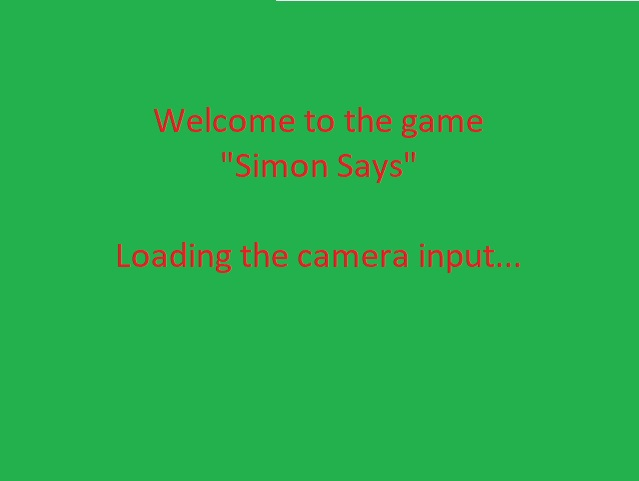
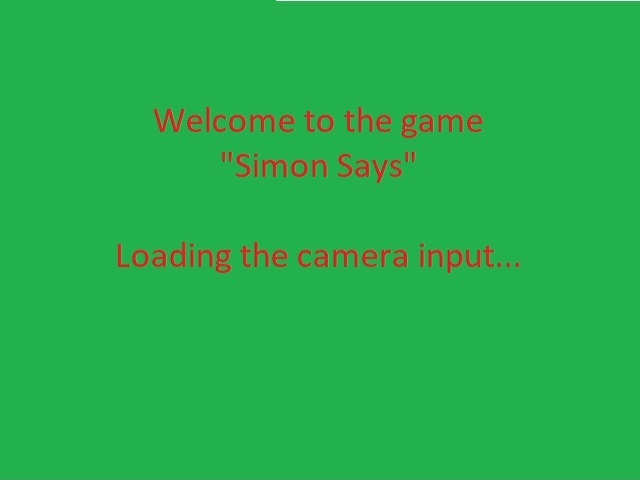
Add the left bar menu, clean the code that function use the arguments

Changed region(s): [[0.2379, 0.2188, 0.7731, 0.375], [0.1784, 0.5, 0.8326, 0.5938]]

diff --git a/helper.py b/helper.py
@@ -10,78 +10,97 @@ import sys
 
 class VideoStreamWidget(object):
     def __init__(self):
-        # Start the thread to read frames from the video stream
-        self.thread = Thread(target=self.update, args=())
-        self.thread.daemon = True
-        self.thread.start()
-        self.PROGRAM_NAME = "Simon Says"
-        self.FIRST_FRAME_PATH = "first_frame.jpg"
+        ### Constans
         ## Tune mediapipe detection and tracking
-        self.pose_detector = mp.solutions.pose.Pose(
+        self.POSE_DETECTOR = mp.solutions.pose.Pose(
             min_detection_confidence=0.5, min_tracking_confidence=0.5
         )
-        self.mp_pose = mp.solutions.pose.PoseLandmark
-        self.action_hand = self.mp_pose.LEFT_INDEX
-        self.base_part = self.mp_pose.NOSE
-        self.action_radius = 20
+        self.PROGRAM_NAME = "Simon Says"
+        self.FIRST_FRAME_PATH = "first_frame.jpg"
+        self.ACTION_RADIUS = 20
+        self.MP_POSE = mp.solutions.pose.PoseLandmark
+        
+        # Start the thread to read frames from the video stream
+        self._thread = Thread(target=self.update, args=())
+        self._thread.daemon = True
+        self._thread.start()
+
+        self._action_hand = self.MP_POSE.LEFT_INDEX # TODO change to null, wait for user to start
+        self._base_part = self.MP_POSE.NOSE # TODO change to null, wait for user to start
+        self._highest_score = 0
+        self._current_score = 0
+        self._capture = None # Camera capture
+        self._landmarks = None # Body parts position landmarks
+        self._left_menu = cv2.imread('menu_bar.jpg')    
 
     def update(self):
-        self.capture = cv2.VideoCapture(0)
+        self._capture = cv2.VideoCapture(0)
         # Read the next frame from the stream in a different thread
         while True:
-            if self.capture.isOpened():
-                (self.status, self.raw_frame) = self.capture.read()
-                self.find_human_pose_in_image()
+            if self._capture.isOpened():
+                (_, self._raw_frame) = self._capture.read()
+                self._pose_detection_results = self.find_human_pose_in_image(raw_camera_frame=self._raw_frame)
             time.sleep(0.01)
 
     def show_frame(self):
-        # as imput is raw_frame
+        # input is raw_frame
         try:
-            self.frame = self.raw_frame.copy()
+            frame = self._raw_frame.copy()
         except AttributeError:
             pass
 
         # check the landmarks
         try:
-            # self.pose_detection_results = self.raw_pose_detection_results.copy()
-            self.landmarks = self.pose_detection_results.pose_landmarks.landmark
-            self.draw_action_hand()
-            self.draw_base_body_part()
-            if self.done_what_simon_said():
-                self.regenerate_simon_instruction()
+            self._landmarks = self._pose_detection_results.pose_landmarks.landmark
+            frame = self.draw_action_hand(camera_frame=frame, action_hand=self._action_hand, landmarks=self._landmarks)
+            frame = self.draw_base_body_part(camera_frame=frame, target_body_part=self._base_part, landmarks=self._landmarks)
+            if self.done_what_simon_said(active_hand=self._action_hand,
+                                         target_body_part=self._base_part,
+                                         landmarks=self._landmarks,
+                                         camera_frame=frame):
+                self._action_hand, self._base_part = self.regenerate_simon_instruction()
+            #self.draw_scores()
         except (KeyError, AttributeError):
             pass
 
         # Display frames in main program
-        cv2.imshow(self.PROGRAM_NAME, self.frame)
+        canvas = self.concate_camera_frame_with_menu(camera_frame=frame, right_bar=self._left_menu)
+        cv2.imshow(self.PROGRAM_NAME, canvas)
         key = cv2.waitKey(1)
         if key == ord("q"):
-            self.capture.release()
+            self._capture.release()
             cv2.destroyAllWindows()
             exit(0)
 
     def show_menu(self):
         cv2.namedWindow(self.PROGRAM_NAME)
-        self.frame = cv2.imread(self.FIRST_FRAME_PATH)
-        if self.frame is not None:
-            cv2.imshow(self.PROGRAM_NAME, self.frame)
+        # read to self._raw_frame because this picture need to be display until the camera frame is ready
+        self._raw_frame = cv2.imread(self.FIRST_FRAME_PATH)
+        if self._raw_frame is not None and self._left_menu is not None:
+            canvas = self.concate_camera_frame_with_menu(camera_frame=self._raw_frame, right_bar=self._left_menu)
+            cv2.imshow(self.PROGRAM_NAME, canvas)
         else:
             exit(1)
 
-    def find_human_pose_in_image(self):
+    def concate_camera_frame_with_menu(self, camera_frame, right_bar):
+        window_width = right_bar.shape[1] + camera_frame.shape[1]
+        canvas = np.zeros((max(right_bar.shape[0], camera_frame.shape[0]), window_width, 3), dtype=np.uint8)    
+        # Place the camera frame on the left side of the canvas
+        canvas[:camera_frame.shape[0], :camera_frame.shape[1]] = camera_frame
+        # Place the menu bar on the right side of the canvas
+        canvas[:right_bar.shape[0], camera_frame.shape[1]:] = right_bar
+        return canvas
+        
+    def find_human_pose_in_image(self, raw_camera_frame):
         # Recolor image because mediapipe need RGB,
         # and cv2 has default BGR
-        image = cv2.cvtColor(self.raw_frame, cv2.COLOR_BGR2RGB)
+        image = cv2.cvtColor(raw_camera_frame, cv2.COLOR_BGR2RGB)
         # Memory optimization
         image.flags.writeable = False
 
         # Make detection
-        self.pose_detection_results = self.pose_detector.process(image)
-
-        # # Memory optimization
-        # self.frame.flags.writeable = True
-        # # Recolor image back
-        # self.frame = cv2.cvtColor(self.frame, cv2.COLOR_RGB2BGR)
+        pose_detection_results = self.POSE_DETECTOR.process(image)
+        return pose_detection_results
 
     def draw_the_body_landmarks(self):
         try:
@@ -93,49 +112,54 @@ class VideoStreamWidget(object):
         except Exception:
             sys.exit("Error in draw_the_body_landmarks probably run before detection")
 
-    def get_body_part_window_coordinate(self, body_index):
-        body_part = self.landmarks[body_index.value]
-        x = round(body_part.x * self.frame.shape[1])
-        y = round(body_part.y * self.frame.shape[0])
+    def get_body_part_window_coordinate(self, body_index, landmarks, camera_frame):
+        body_part = landmarks[body_index.value]
+        x = round(body_part.x * camera_frame.shape[1])
+        y = round(body_part.y * camera_frame.shape[0])
         return x, y
 
-    def draw_action_hand(self):
-        x, y = self.get_body_part_window_coordinate(self.action_hand)
-        cv2.circle(self.frame, (x, y), self.action_radius, (0, 255, 0), -1)
+    def draw_action_hand(self, action_hand, camera_frame, landmarks):
+        x, y = self.get_body_part_window_coordinate(body_index=action_hand, landmarks=landmarks, camera_frame=camera_frame)
+        cv2.circle(camera_frame, (x, y), self.ACTION_RADIUS, (0, 255, 0), -1)
+        return camera_frame
 
-    def draw_base_body_part(self):
-        x, y = self.get_body_part_window_coordinate(self.base_part)
-        cv2.circle(self.frame, (x, y), self.action_radius, (255, 0, 0), -1)
+    def draw_base_body_part(self, target_body_part, camera_frame, landmarks):
+        x, y = self.get_body_part_window_coordinate(body_index=target_body_part, landmarks=landmarks, camera_frame=camera_frame)
+        cv2.circle(camera_frame, (x, y), self.ACTION_RADIUS, (255, 0, 0), -1)
+        return camera_frame
         
-    def done_what_simon_said(self):
-        action_x, action_y = self.get_body_part_window_coordinate(self.action_hand)
-        base_x, base_y = self.get_body_part_window_coordinate(self.base_part)
+    def done_what_simon_said(self, active_hand, target_body_part, landmarks, camera_frame):
+        active_x, active_y = self.get_body_part_window_coordinate(body_index=active_hand, landmarks=landmarks, camera_frame=camera_frame)
+        target_x, target_y = self.get_body_part_window_coordinate(body_index=target_body_part, landmarks=landmarks, camera_frame=camera_frame)
         
         distance = math.dist(
-            [action_x, action_y],
-            [base_x, base_y])
+            [active_x, active_y],
+            [target_x, target_y])
         
-        return distance < self.action_radius
-        
+        return distance < self.ACTION_RADIUS
         
     def regenerate_simon_instruction(self):
-        self.action_hand = random.choice([
-            self.mp_pose.LEFT_INDEX,
-            self.mp_pose.RIGHT_INDEX
+        active_hand = random.choice([
+            self.MP_POSE.LEFT_INDEX,
+            self.MP_POSE.RIGHT_INDEX
         ])
         
-        if self.action_hand == self.mp_pose.LEFT_INDEX:
-            self.base_part = random.choice([
-                self.mp_pose.NOSE,
-                self.mp_pose.RIGHT_SHOULDER,
-                self.mp_pose.RIGHT_INDEX,
-                self.mp_pose.RIGHT_ELBOW
+        if active_hand == self.MP_POSE.LEFT_INDEX:
+            target_body_part = random.choice([
+                self.MP_POSE.NOSE,
+                self.MP_POSE.RIGHT_SHOULDER,
+                self.MP_POSE.RIGHT_INDEX,
+                self.MP_POSE.RIGHT_ELBOW
             ])
-        elif self.action_hand == self.mp_pose.RIGHT_INDEX:
-            self.base_part = random.choice([
-                self.mp_pose.NOSE,
-                self.mp_pose.LEFT_SHOULDER,
-                self.mp_pose.LEFT_INDEX,
-                self.mp_pose.LEFT_ELBOW
+        elif active_hand == self.MP_POSE.RIGHT_INDEX:
+            target_body_part = random.choice([
+                self.MP_POSE.NOSE,
+                self.MP_POSE.LEFT_SHOULDER,
+                self.MP_POSE.LEFT_INDEX,
+                self.MP_POSE.LEFT_ELBOW
             ])
+            
+        return active_hand, target_body_part
+            
+        
             
